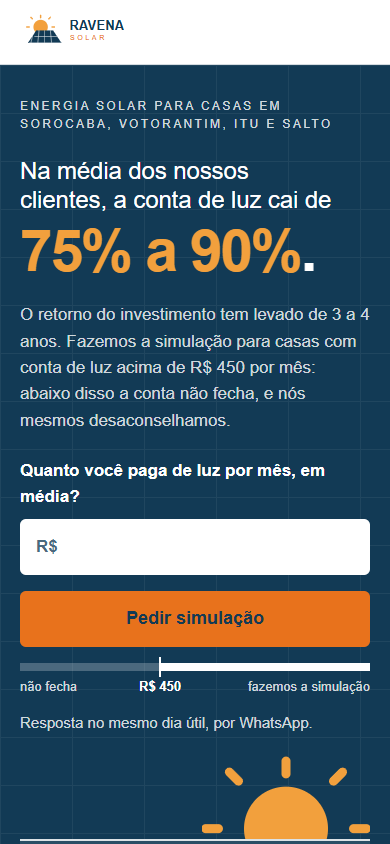
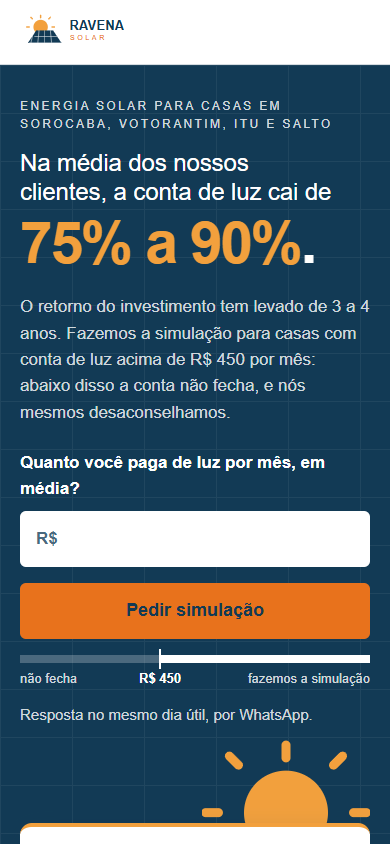
Volta o espaçamento compacto e o cartão branco de prova
- A primeira tela deixa de ter a altura da janela: o vazio entre o
  formulário e a prova ficou grande demais. Volta o ritmo da sexta
  versão.
- O painel azul de linhas brancas vira de novo o cartão branco com
  traço âmbar, canto de 12px e sombra, avançando 56px sobre a seção
  branca. O sol continua nascendo por trás dele.
- Números do cartão em 36px no celular; tokens --painel e
  --linha-painel removidos.
- SPEC, DESIGN.md e verificar.mjs atualizados; capturas locais
  refeitas (117 OK).

Changed region(s): [[0.0308, 0.1848, 0.9538, 1.0]]

diff --git a/styles.css b/styles.css
@@ -10,8 +10,6 @@
   --fundo-suave: rgb(18 58 85 / 0.05);
   --branco-suave: rgb(255 255 255 / 0.80);
   --linha-clara: rgb(255 255 255 / 0.24);
-  --linha-painel: rgb(255 255 255 / 0.85); /* as linhas do painel, com a opacidade que têm na logo */
-  --painel: rgb(255 255 255 / 0.10);       /* a célula do painel sobre o azul */
   --sombra: 0 10px 30px rgb(18 58 85 / 0.14);
   --textura: 0.06;
 
@@ -21,7 +19,7 @@
 
   --t-monumental: clamp(46px, 15vw, 60px);
   --t-numero: 56px;
-  --t-prova: 44px;
+  --t-prova: 36px;
   --t-h1: 24px;
   --t-h2: 30px;
   --t-h3: 19px;
@@ -46,6 +44,7 @@
   --raio: 6px;
   --raio-cartao: 12px;
   --topo: 64px;
+  --avanco: 56px; /* quanto o cartão de prova avança da primeira tela sobre a seção branca */
   --limite: 40%; /* onde a marca de R$ 450 fica na régua */
 }
 
@@ -229,11 +228,12 @@ p { max-width: var(--medida); }
   background: var(--azul);
   color: var(--branco);
   padding-top: var(--e-5);
-  padding-bottom: var(--e-5); /* o painel termina no azul, não é cortado pela seção branca */
+  /* 96px de azul abaixo da nota, onde o sol nasce, mais o trecho em que o cartão avança */
+  padding-bottom: calc(var(--e-8) + var(--avanco));
   overflow: hidden;
 }
 .sobretitulo {
-  margin-bottom: var(--e-4);
+  margin-bottom: var(--e-3);
   font-size: var(--t-rotulo);
   line-height: 1.5;
   letter-spacing: var(--rastro);
@@ -327,8 +327,13 @@ p { max-width: var(--medida); }
   white-space: nowrap;
 }
 
-/* O pé da primeira tela repete a logo: o sol nasce por trás do painel */
-.prova { position: relative; margin-top: 104px; }
+/* O sol da logo nasce por trás do cartão de prova, que avança sobre a seção branca */
+.prova {
+  position: relative;
+  z-index: 1;
+  isolation: isolate; /* o sol fica sobre o azul da primeira tela e atrás do cartão */
+  margin-top: calc(-1 * var(--avanco));
+}
 .sol {
   position: absolute;
   z-index: -1;
@@ -342,26 +347,26 @@ p { max-width: var(--medida); }
 .arte-raios { stroke: var(--ambar); stroke-width: 9; stroke-linecap: round; }
 .arte-raios line { vector-effect: non-scaling-stroke; } /* traço fixo, por maior que o sol fique */
 
-/* Painel de prova: células com as linhas brancas da logo */
+/* Cartão de prova */
 .prova-lista {
   display: grid;
-  border-top: 2px solid var(--linha-painel);
-  border-bottom: 2px solid var(--linha-painel);
-  background: var(--azul); /* tampa o sol; cada célula põe --painel por cima */
+  border-top: 4px solid var(--ambar);
+  border-radius: var(--raio-cartao);
+  background: var(--branco);
+  box-shadow: var(--sombra);
 }
 .prova-lista li {
   display: grid;
   grid-template-columns: 4.1em 1fr;
   gap: var(--e-3);
   align-items: center;
-  padding: var(--e-4) var(--e-3);
-  border-top: 2px solid var(--linha-painel);
-  background: var(--painel);
+  padding: var(--e-4);
+  border-top: 1px solid var(--linha);
   font-size: var(--t-prova);
 }
 .prova-lista li:first-child { border-top: 0; }
-.prova-lista span { max-width: 24ch; color: var(--branco-suave); font-size: 16px; line-height: 1.4; }
-.prova .numero { color: var(--branco); font-size: 1em; white-space: nowrap; }
+.prova-lista span { max-width: 24ch; color: var(--texto-suave); font-size: 16px; line-height: 1.4; }
+.prova .numero { color: var(--azul); font-size: 1em; white-space: nowrap; }
 
 .numero {
   display: block;
@@ -839,26 +844,17 @@ p { max-width: var(--medida); }
   .formulario .botao { width: 100%; display: flex; }
   .barra-fixa { display: none; }
 
-  .hero { padding-top: var(--e-7); padding-bottom: var(--e-6); }
-  /* A dobra cai na linha de cima do painel: o conteúdo ocupa a janela menos o topo,
-     o respiro de cima, a margem do painel e uma fresta de 24px onde o painel aparece. */
-  .hero-conteudo {
-    max-width: 720px;
-    min-height: calc(100svh - var(--topo) - var(--e-7) - var(--e-7) - var(--e-4));
-    display: flex;
-    flex-direction: column;
-    justify-content: center; /* em janela alta, a sobra se divide em cima e embaixo */
-  }
+  .hero { padding-top: var(--e-7); padding-bottom: calc(var(--e-7) + var(--avanco)); }
+  .hero-conteudo { max-width: 720px; }
   .sobretitulo { white-space: nowrap; }
   h1 { line-height: 1.15; }
   /* A frase quebra depois de "clientes,": "nossos clientes" não se separa */
   .h1-frase { max-width: 14em; text-wrap: wrap; }
-  .hero-texto { margin-top: var(--e-5); max-width: 600px; }
-  .hero-conta { margin-top: var(--e-6); }
+  .hero-texto { margin-top: var(--e-4); max-width: 600px; }
+  .hero-conta { margin-top: var(--e-5); }
   .hero-conta-linha { grid-template-columns: 1fr auto; }
   .regua-legenda { font-size: var(--t-pequeno); }
 
-  .prova { margin-top: var(--e-7); }
   /* O sol ocupa o que sobra à direita da coluna de texto (720px), para nunca passar por trás da régua */
   .sol { width: clamp(140px, calc(min(100vw - 2 * var(--margem), var(--largura)) - 744px), 360px); }
   .prova-lista { grid-template-columns: repeat(3, 1fr); }
@@ -866,9 +862,9 @@ p { max-width: var(--medida); }
     grid-template-columns: 1fr;
     gap: var(--e-3);
     align-content: start;
-    padding: var(--e-5) var(--e-4) var(--e-6);
+    padding: var(--e-5);
     border-top: 0;
-    border-left: 2px solid var(--linha-painel);
+    border-left: 1px solid var(--linha);
   }
   .prova-lista li:first-child { border-left: 0; }
   .prova-lista span { font-size: 18px; }

diff --git a/index.html b/index.html
@@ -21,8 +21,7 @@
 
   <main>
 
-    <!-- 1. Promessa. O pé da tela repete a logo: o sol nasce por trás do painel,
-         e as células do painel trazem os três números de prova. -->
+    <!-- 1. Promessa. Logo abaixo, o cartão de prova repete a logo: o sol nasce por trás dele. -->
     <section class="hero">
       <div class="wrap">
         <div class="hero-conteudo">
@@ -57,27 +56,30 @@
           </form>
           <p class="nota-botao">Resposta no mesmo dia útil, por WhatsApp.</p>
         </div>
-
-        <div class="prova">
-          <!-- O sol da logo, com a mesma geometria de assets/logo.svg. -->
-          <svg class="sol" viewBox="40 16 184 130" aria-hidden="true" focusable="false" xmlns="http://www.w3.org/2000/svg">
-            <circle class="arte-sol" cx="132" cy="96" r="46"/>
-            <g class="arte-raios">
-              <line x1="132" y1="22" x2="132" y2="36"/>
-              <line x1="184" y1="44" x2="194" y2="34"/>
-              <line x1="80" y1="44" x2="70" y2="34"/>
-              <line x1="206" y1="96" x2="220" y2="96"/>
-              <line x1="58" y1="96" x2="44" y2="96"/>
-            </g>
-          </svg>
-          <ul class="prova-lista" aria-label="Números da Ravena Solar">
-            <li><strong class="numero">412</strong><span>sistemas residenciais instalados, por equipe própria</span></li>
-            <li><strong class="numero">4,8</strong><span>no Google, com 137 avaliações</span></li>
-            <li><strong class="numero">6 anos</strong><span>de empresa, com sede em Sorocaba</span></li>
-          </ul>
-        </div>
       </div>
     </section>
+
+    <!-- Cartão de prova: avança da primeira tela sobre a seção branca, com o sol nascendo atrás. -->
+    <div class="wrap">
+      <div class="prova">
+        <!-- O sol da logo, com a mesma geometria de assets/logo.svg. -->
+        <svg class="sol" viewBox="40 16 184 130" aria-hidden="true" focusable="false" xmlns="http://www.w3.org/2000/svg">
+          <circle class="arte-sol" cx="132" cy="96" r="46"/>
+          <g class="arte-raios">
+            <line x1="132" y1="22" x2="132" y2="36"/>
+            <line x1="184" y1="44" x2="194" y2="34"/>
+            <line x1="80" y1="44" x2="70" y2="34"/>
+            <line x1="206" y1="96" x2="220" y2="96"/>
+            <line x1="58" y1="96" x2="44" y2="96"/>
+          </g>
+        </svg>
+        <ul class="prova-lista" aria-label="Números da Ravena Solar">
+          <li><strong class="numero">412</strong><span>sistemas residenciais instalados, por equipe própria</span></li>
+          <li><strong class="numero">4,8</strong><span>no Google, com 137 avaliações</span></li>
+          <li><strong class="numero">6 anos</strong><span>de empresa, com sede em Sorocaba</span></li>
+        </ul>
+      </div>
+    </div>
 
     <!-- 2. Objeção 1: a empresa vai sumir? -->
     <section class="secao folha">

diff --git a/DESIGN.md b/DESIGN.md
@@ -22,15 +22,13 @@ Neutros: não são cores novas, são o azul e o branco da logo com transparênci
 | `--fundo-suave` | `rgb(18 58 85 / 0.05)` | Fundo de seção alternada |
 | `--branco-suave` | `rgb(255 255 255 / 0.80)` | Texto de apoio sobre azul |
 | `--linha-clara` | `rgb(255 255 255 / 0.24)` | Divisórias e trilhos sobre azul |
-| `--linha-painel` | `rgb(255 255 255 / 0.85)` | Linhas do painel de prova. É o branco com a opacidade que as linhas do painel têm na logo (`opacity="0.85"`) |
-| `--painel` | `rgb(255 255 255 / 0.10)` | Fundo de cada célula do painel de prova, sobre o azul |
-| `--sombra` | `0 10px 30px rgb(18 58 85 / 0.14)` | Topo fixo, barra do celular e botão ao passar o mouse |
+| `--sombra` | `0 10px 30px rgb(18 58 85 / 0.14)` | Topo fixo, barra do celular, cartão de prova e botão ao passar o mouse |
 | `--textura` | `0.06` | Opacidade da textura do painel sobre azul |
 
 Regras:
 
 - O laranja não aparece em título, ícone, borda decorativa nem fundo de seção. Se algo é laranja, é clicável ou está em foco. A logo é a exceção.
-- O âmbar nunca é texto sobre branco (contraste de 2,1:1). Como texto, só sobre azul (5,6:1). Sobre branco ele aparece só como forma: o traço dos rótulos, os blocos de anos e o topo da ficha do formulário.
+- O âmbar nunca é texto sobre branco (contraste de 2,1:1). Como texto, só sobre azul (5,6:1). Sobre branco ele aparece só como forma: o traço dos rótulos, os blocos de anos, o topo do cartão de prova e o topo da ficha do formulário.
 - Texto do botão é azul sobre laranja (3,9:1), não branco (3,1:1). Por isso o rótulo do botão é sempre negrito e com 17px ou mais.
 - Sem gradiente. Sem vermelho para erro: erro e bloqueio usam o azul, com borda grossa à esquerda.
 - Não entram `#1d8f7e`, `#0d2c42` nem `#155a7a`, que são do site de 2021 e não da marca.
@@ -48,7 +46,7 @@ A voz vem da própria logo, que escreve "RAVENA" em negrito e "SOLAR" leve, com 
 |---|---|---|---|
 | `--t-monumental` | 15vw, entre 46 e 60px (58,5px em 390) / 0,95 | 12vw, entre 88 e 136px / 0,95 | "75% a 90%" e os dois valores do caso. O maior texto da página |
 | `--t-numero` | 56px / 0,95 | 8,2vw, entre 60 e 96px / 0,95 | Número de destaque da objeção ("11 pessoas", "5 anos") |
-| `--t-prova` | 44px / 0,95 | 5vw, entre 48 e 64px / 0,95 | Os três números do painel de prova. Teto de 64px: a 88px o número ficava mais de cinco vezes maior que a legenda e o painel pesava como um bloco bruto; a prova não deve competir com "75% a 90%" |
+| `--t-prova` | 36px / 0,95 | 5vw, entre 48 e 64px / 0,95 | Os três números do cartão de prova, em `--azul`. Teto de 64px: a 88px o número ficava mais de cinco vezes maior que a legenda e a prova competia com "75% a 90%" |
 | `--t-h2` | 30px / 1,08 | 5vw, entre 40 e 56px / 1,08 | A pergunta de cada seção |
 | `--t-h1` | 24px / 1,2 | 40px / 1,15 | A frase da promessa, em peso leve, acima do número. No computador tem até 14em por linha, para quebrar depois de "clientes," (antes, "nossos / clientes" ficava separado) |
 | `--t-h3` | 19px / 1,3 | 20px / 1,3 | Título de item |
@@ -65,7 +63,7 @@ Hierarquia: o maior texto da página é sempre um número (`--t-monumental`), e 
 - Largura do conteúdo: 1080px no máximo (`--largura`). Margem lateral: 20px no celular, 32px a partir de 760px (`--margem`).
 - Linha de texto: 62 caracteres no máximo (`--medida`).
 - Quebra única: 760px. Abaixo disso tudo é uma coluna.
-- Canto: 6px em botão e campo (`--raio`), 12px na ficha do formulário e no quadro do crédito (`--raio-cartao`), 2px em barras e blocos. O painel de prova e as colunas de preço não têm canto arredondado.
+- Canto: 6px em botão e campo (`--raio`), 12px no cartão de prova, na ficha do formulário e no quadro do crédito (`--raio-cartao`), 2px em barras e blocos. As colunas de preço não têm canto arredondado.
 - Topo fixo: 64px de altura no celular, 76px a partir de 760px (`--topo`).
 - Botão: 56px de altura mínima, largura total no celular (44px na versão do topo). Campo de formulário: 52px.
 - Foco: contorno de 3px em `--laranja`, afastado 2px.
@@ -75,12 +73,12 @@ Hierarquia: o maior texto da página é sempre um número (`--t-monumental`), e 
 - **Botão de ação:** fundo `--laranja`, texto `--azul` em negrito. É o único elemento laranja preenchido da página. O rótulo é sempre "Pedir simulação" (no formulário, "Pedir simulação pelo WhatsApp"). Ao passar o mouse sobe 1px e ganha `--sombra`.
 - **Topo fixo:** fundo `--branco`, logo à esquerda. No computador traz o botão à direita. Ganha `--sombra` quando a página rola.
 - **Barra de ação do celular:** fundo `--branco`, presa ao pé da tela, com o botão. Aparece depois que o botão da primeira tela sai de vista e some quando o formulário ou o rodapé aparecem.
-- **Primeira tela:** fundo `--azul`. A promessa tem duas partes: a frase em `--t-h1`, peso leve e `--branco`; e o intervalo "75% a 90%" em `--t-monumental`, negrito e `--ambar`, numa linha só. Ao fundo, a textura do painel. Depois vêm o campo da conta e a régua (abaixo). O pé da tela repete a composição da logo: o sol atrás, o painel na frente.
+- **Primeira tela:** fundo `--azul`. A promessa tem duas partes: a frase em `--t-h1`, peso leve e `--branco`; e o intervalo "75% a 90%" em `--t-monumental`, negrito e `--ambar`, numa linha só. Ao fundo, a textura do painel. Depois vêm o campo da conta e a régua (abaixo). O pé da tela repete a composição da logo: o sol nasce por trás do cartão de prova.
   - **Escala da primeira tela:** só cinco tamanhos acima da dobra: rótulo (`--t-rotulo`), pequeno (`--t-pequeno`, na régua e na nota), corpo (`--t-corpo`, no texto e no rótulo do campo), frase (`--t-h1`) e número (`--t-monumental`). O sobretítulo fica em `--branco-suave`, numa linha só no computador, porque o âmbar acima da dobra é só do número. *Por quê:* a primeira tela tinha nove tamanhos e um sobretítulo âmbar em duas linhas disputando com "75% a 90%", o que deixava a dobra com aspecto desarrumado.
-  - **Ritmo:** 24px do sobretítulo à frase, 8px da frase ao número, 32px do número ao texto, 48px do texto ao campo, 16px entre a régua e a nota.
-  - **Coluna e dobra (computador):** o texto ocupa até 720px. A primeira tela tem pelo menos a altura da janela, e o painel de prova é empurrado para o pé dela: na dobra aparece a linha de cima do painel com o sol nascendo, e os três números entram inteiros logo na primeira rolagem. Em janela alta, o bloco de texto fica centrado na altura que sobra, para não abrir uma faixa vazia acima do painel. *Por quê:* antes o painel começava a cerca de 140px do fim da tela, e os números apareciam cortados pela metade (SPEC, item 3).
-- **Sol:** o sol da logo (círculo e cinco raios, mesma geometria de `assets/logo.svg`), em `--ambar`, encostado à direita. Fica atrás do painel de prova, que cobre 30% da altura dele. Largura de 168px no celular; no computador, o que sobra à direita da coluna de texto (720px), até 360px. Os raios têm traço fixo de 9px na tela (`vector-effect: non-scaling-stroke`), seja qual for o tamanho do sol. *Por quê:* com 520px e o traço escalando junto, os raios passavam de 20px de espessura e, cortados pelo painel, pareciam pílulas soltas, não raios.
-- **Painel de prova:** as células do painel da logo, com os três números de prova. Fundo `--azul` com `--painel` por cima; linhas de 2px em `--linha-painel` no topo e entre as células; sem canto e sem sombra. Números em `--t-prova` e `--branco`, legenda em `--branco-suave` (16px no celular, 18px no computador, até 24ch por linha). Três colunas no computador, três linhas no celular. Abaixo do painel fica uma faixa de azul (`--e-5` no celular, `--e-6` no computador) antes da seção branca, com a linha `--linha-painel` fechando o painel embaixo. *Por quê:* encostado no fim da primeira tela, o painel parecia cortado pela seção seguinte, não terminado.
+  - **Ritmo:** o da sexta versão. 16px do sobretítulo à frase, 8px da frase ao número, 24px do número ao texto, 32px do texto ao campo, 16px entre a régua e a nota. Respiro de 32px em cima no celular e 72px no computador. Embaixo, 96px no celular (a altura do sol que aparece acima do cartão) e 72px no computador, mais os 56px em que o cartão avança.
+  - **Coluna (computador):** o texto ocupa até 720px. A primeira tela tem a altura do conteúdo, não a da janela. *Por quê:* na oitava versão a tela ganhou a altura da janela para a dobra cair na borda do painel, e o espaço vazio entre o formulário e a prova ficou grande demais. Voltou o espaçamento compacto da sexta versão.
+- **Sol:** o sol da logo (círculo e cinco raios, mesma geometria de `assets/logo.svg`), em `--ambar`, encostado à direita. Fica atrás do cartão de prova, que cobre 30% da altura dele. Largura de 168px no celular; no computador, o que sobra à direita da coluna de texto (720px), até 360px. Os raios têm traço fixo de 9px na tela (`vector-effect: non-scaling-stroke`), seja qual for o tamanho do sol. *Por quê:* com 520px e o traço escalando junto, os raios passavam de 20px de espessura e pareciam pílulas soltas, não raios.
+- **Cartão de prova:** como na sexta versão. Cartão `--branco` com `--raio-cartao`, `--sombra` e traço de 4px em `--ambar` no topo; avança 56px (`--avanco`) da primeira tela sobre a seção branca. Divisórias de 1px em `--linha` entre as três células. Números em `--t-prova` e `--azul`, legenda em `--texto-suave` (16px no celular, 18px no computador, até 24ch por linha). Três colunas no computador, três linhas no celular. *Por quê:* o painel azul de linhas brancas (sétima e oitava versões) ficou pesado e bruto. O cartão branco separa a prova da promessa, e o sol continua nascendo por trás da borda de cima dele.
 - **Régua dos R$ 450:** sob o campo da conta. Trilho de 8px: à esquerda da marca, `--linha-clara`; à direita, `--branco`. A marca fica a 40% da largura (`--limite`), com 2px e 20px de altura, e é o único número escrito: "R$ 450". Legendas em 13px (15px no computador): "não fecha" e "fazemos a simulação". O valor digitado é um ponto de 18px em `--ambar` com contorno `--azul`, na posição `valor / 450 x 40%`, parando nas pontas. Nada é laranja: a régua não é ação.
 - **Textura do painel:** a grade das células do painel da logo (células de 72x48px, linha de 1px), em `--branco` com opacidade `--textura` (0,06). Só sobre `--azul`: primeira tela e seção do formulário. É desenhada por máscara SVG, não por gradiente, e fica atrás do conteúdo.
 - **Rótulo de seção:** fio de 1px em `--linha` de ponta a ponta do conteúdo, com um traço de 40x4px em `--ambar` no começo. Abaixo, o número da folha (01 a 06, em negrito e `--azul`) e o rótulo em caixa alta. O número é desenhado pelo CSS (`counter`): é ordem, não cifra, e não entra no texto da página.

diff --git a/SPEC.md b/SPEC.md
@@ -12,11 +12,11 @@ Cada decisão abaixo vem com o seu porquê. Mudou a página, muda aqui antes.
 
 1. **A promessa usa número e já filtra.** No alto, as quatro cidades. Depois a frase "Na média dos nossos clientes, a conta de luz cai de 75% a 90%", o retorno de 3 a 4 anos e o aviso de que a simulação é para conta acima de R$ 450. *Por quê:* com esses números a frase só serve para a Ravena, e quem paga R$ 200 percebe na primeira tela que não é o público.
 2. **"Na média" e "tem levado" ficam escritos.** *Por quê:* é como o brief diz, e sem essas palavras a média vira promessa individual num lugar onde o Procon é ativo.
-3. **Os 412 sistemas, a nota 4,8 e os 6 anos são prova, não promessa.** Eles ficam no painel do pé da primeira tela: no celular, logo abaixo da tela inicial; no computador, só a borda de cima aparece. *Por quê:* a promessa responde "quanto eu economizo e isso é para mim?". A prova responde "posso confiar?", e é a primeira coisa que aparece quando a pessoa rola a tela.
+3. **Os 412 sistemas, a nota 4,8 e os 6 anos são prova, não promessa.** Eles ficam num cartão branco que avança do pé da primeira tela sobre a seção seguinte. *Por quê:* a promessa responde "quanto eu economizo e isso é para mim?". A prova responde "posso confiar?", e fica logo abaixo dela. *Por que não a primeira tela na altura da janela, com só a borda da prova na dobra:* foi testado e abriu um vazio grande entre o formulário e a prova.
 4. **A primeira tela pede o valor da conta.** É o primeiro passo do formulário de simulação, com "R$" fixo e o botão ao lado. Abaixo de R$ 450 o aviso aparece ali mesmo. Com R$ 450 ou mais, a página desce até o formulário com o valor preenchido. *Por quê:* digitar um número é um primeiro passo pequeno, e quem não tem como comprar descobre isso sem preencher nada.
 5. **Esse campo não calcula, não envia e não abre o WhatsApp.** Sem JavaScript, ele é só um link para o formulário. *Por quê:* o cálculo depois da Lei 14.300 é individual, e o filtro só pode existir num caminho.
 6. **Uma régua de R$ 450 fica sob o campo.** O valor digitado aparece como um ponto de um lado ou do outro da única marca escrita. *Por quê:* recusar quem não tem como comprar é o traço mais próprio da Ravena, e a régua mostra isso antes do botão sem escrever outro número.
-7. **A composição repete a logo.** O sol nasce por trás de um painel cujas células trazem os três números de prova, com a grade das células ao fundo. *Por quê:* a tela vira a marca em escala de página, e o azul ganha profundidade sem foto nem gradiente.
+7. **A composição repete a logo.** O sol nasce por trás do cartão cujas células trazem os três números de prova, com a grade das células ao fundo. *Por quê:* a tela vira a marca em escala de página, e o azul ganha profundidade sem foto nem gradiente.
 
 ### Ação
 
